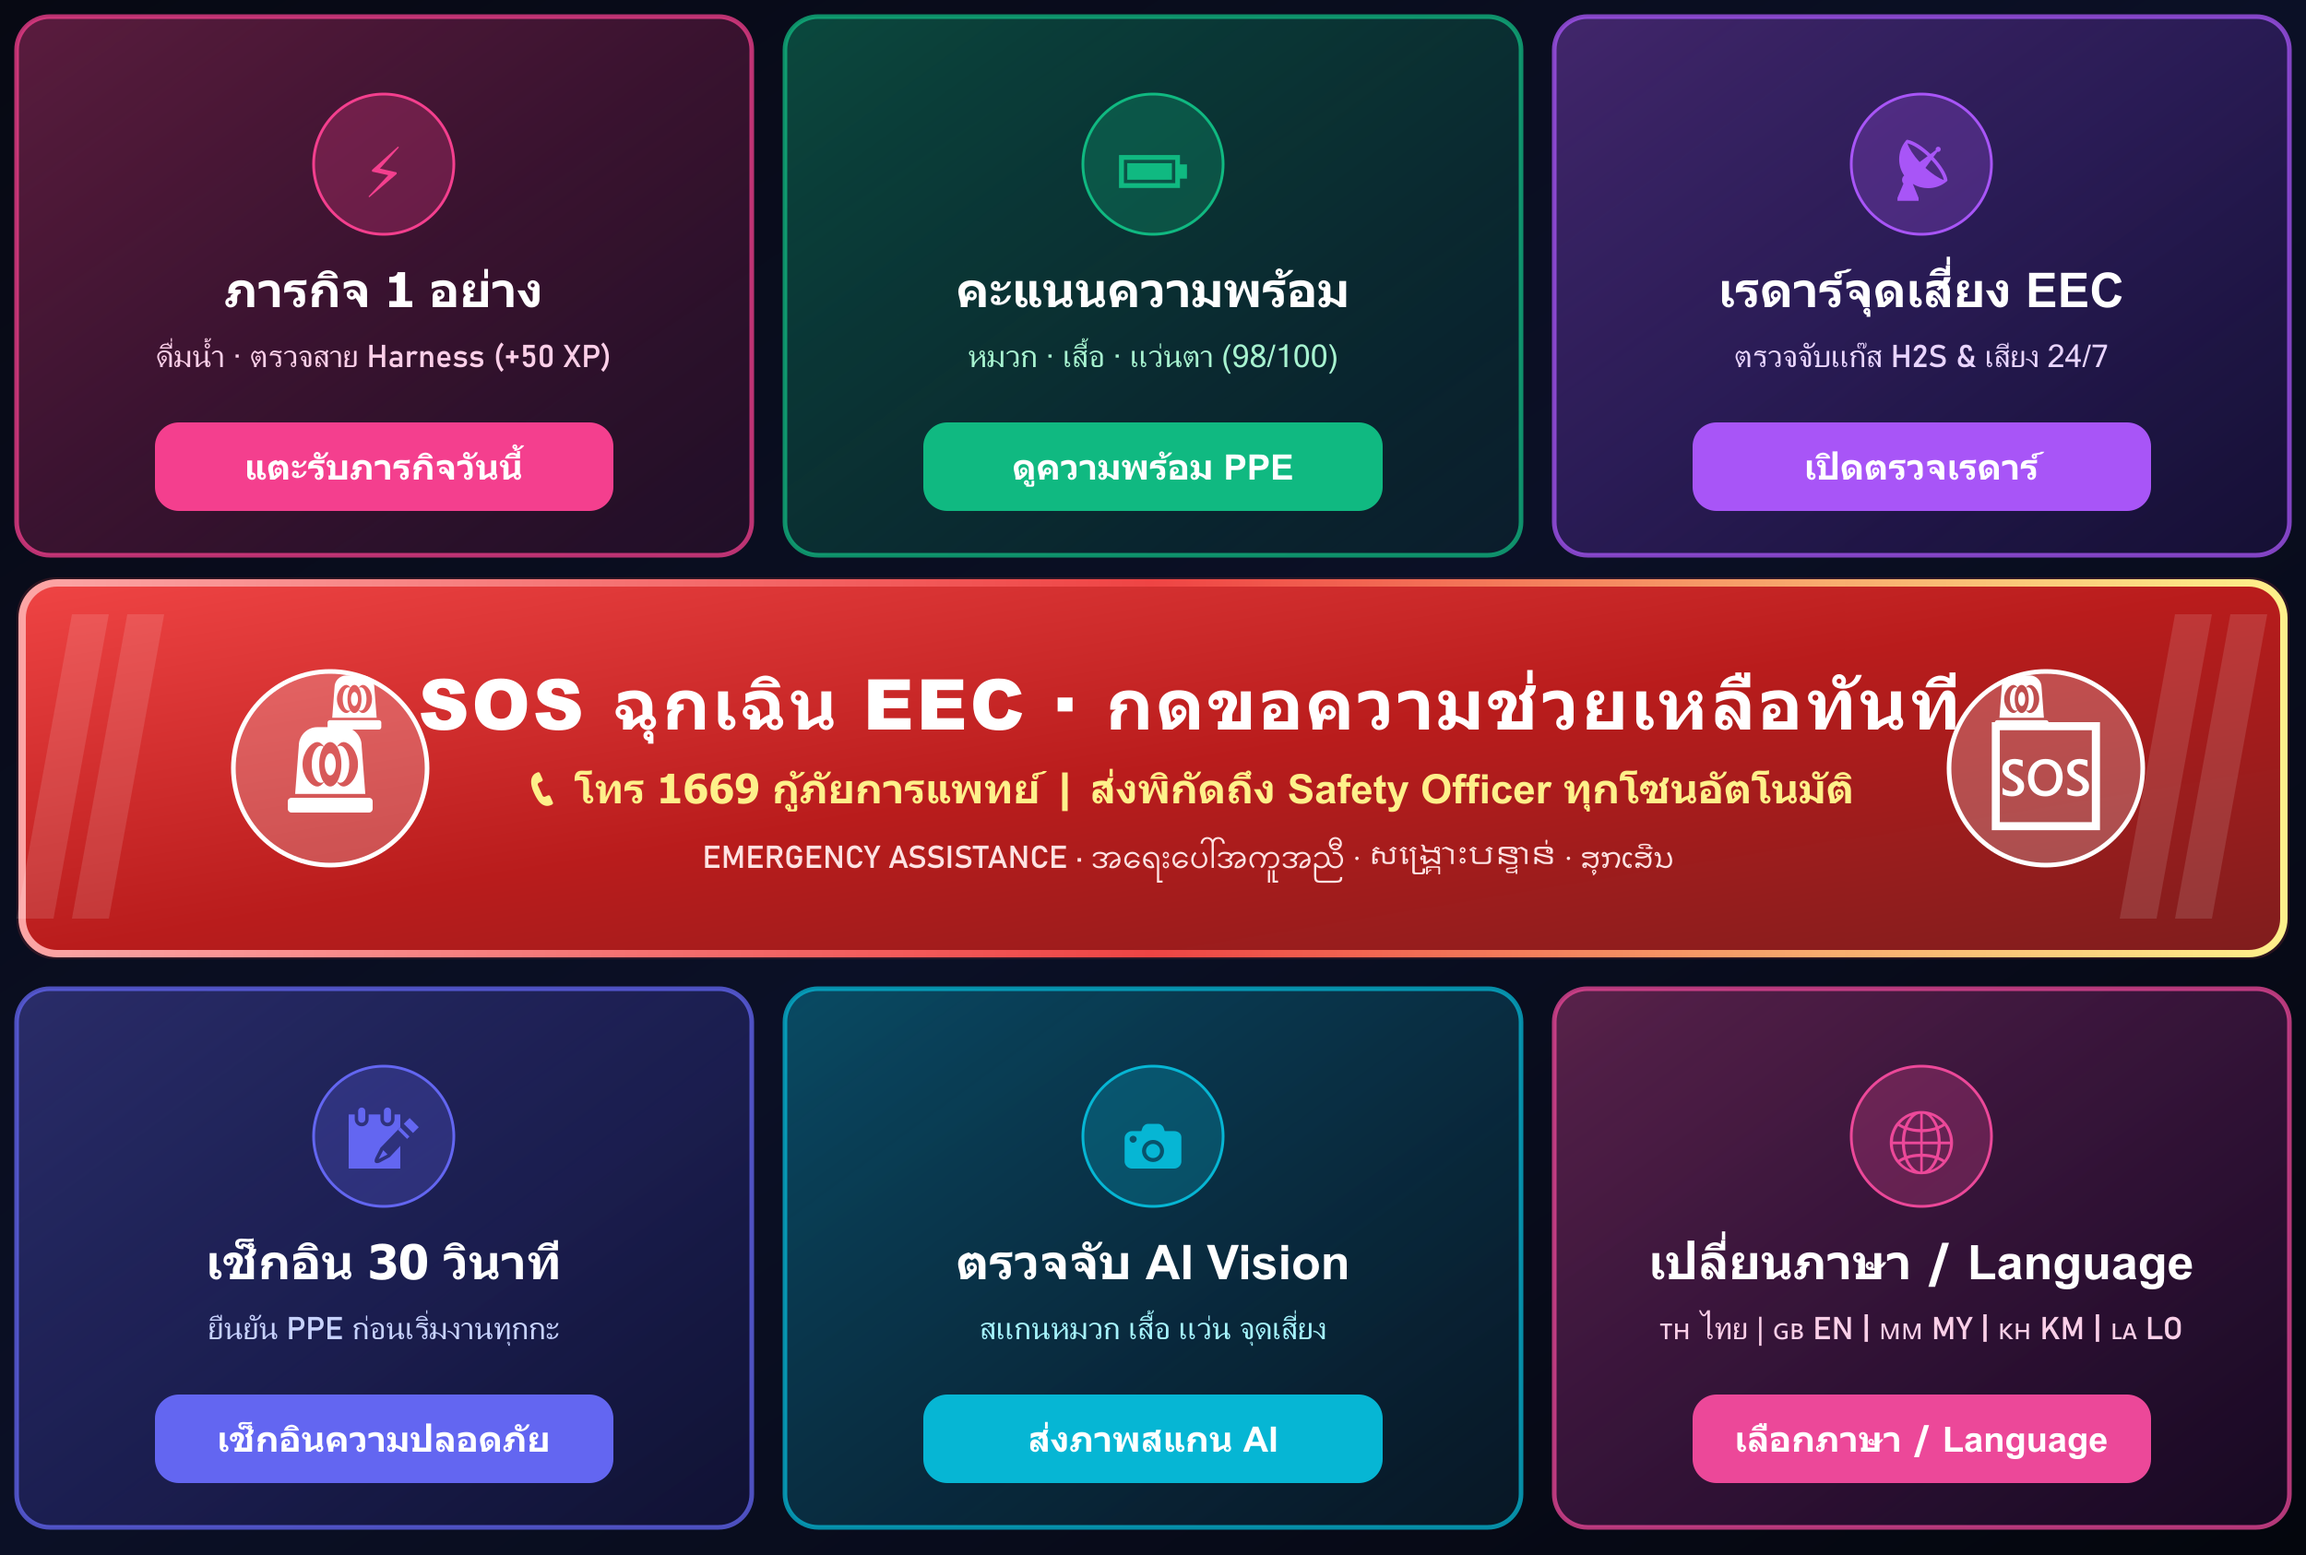
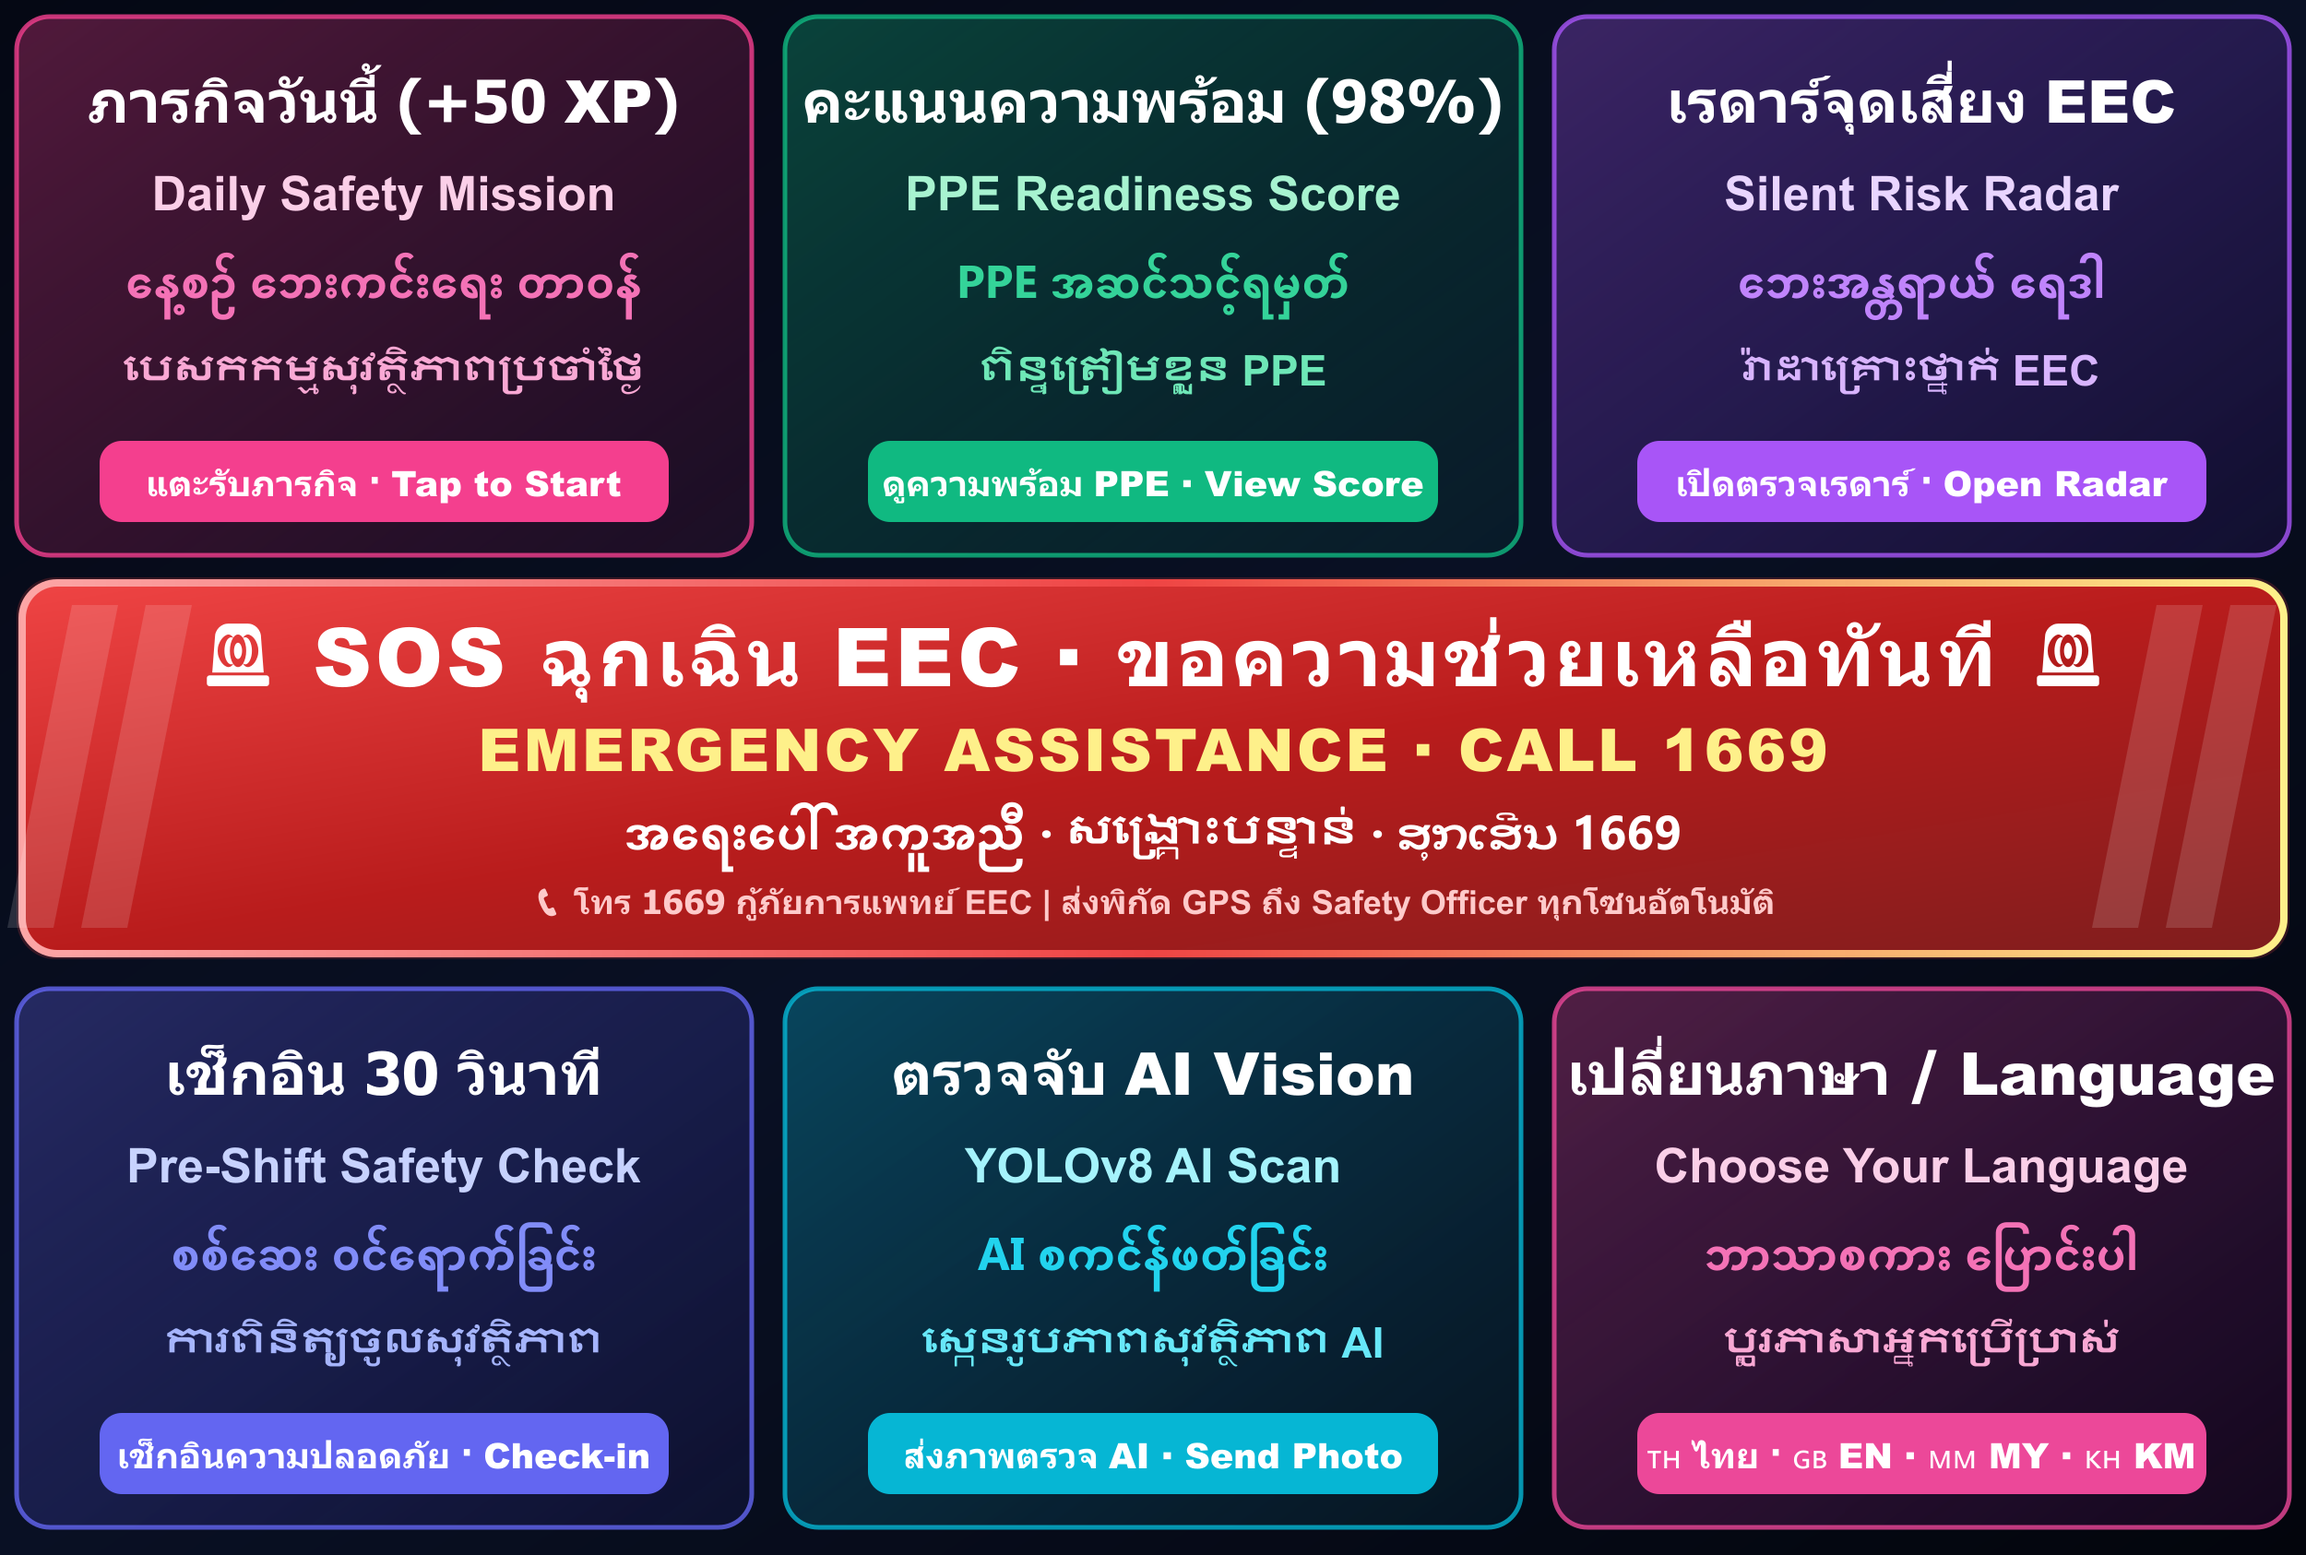
feat: add multilingual LINE Rich Menu generator and core speech/store utilities for SafeSight

diff --git a/src/core/speech.ts b/src/core/speech.ts
@@ -1,19 +1,62 @@
 import { SupportedLanguage } from './types';
 
+// Active utterances list to prevent Chromium Garbage Collection bug
+const activeUtterances: SpeechSynthesisUtterance[] = [];
+
 // Speech synthesis and alarm sound engine
 class SafeSightAudioEngine {
   private audioCtx: AudioContext | null = null;
   private isAlarmPlaying: boolean = false;
   private alarmInterval: number | null = null;
   public isMuted: boolean = false;
+  private isAudioUnlocked: boolean = false;
+
+  constructor() {
+    if (typeof window !== 'undefined') {
+      // Auto-unlock on first user interaction
+      const unlock = () => {
+        if (!this.isAudioUnlocked) {
+          this.isAudioUnlocked = true;
+          this.ensureUnlocked();
+        }
+      };
+      window.addEventListener('pointerdown', unlock, { passive: true });
+      window.addEventListener('keydown', unlock, { passive: true });
+      window.addEventListener('touchstart', unlock, { passive: true });
+      window.addEventListener('click', unlock, { passive: true });
+
+      // Preload voices if supported
+      if ('speechSynthesis' in window) {
+        window.speechSynthesis.getVoices();
+        window.speechSynthesis.onvoiceschanged = () => {
+          window.speechSynthesis.getVoices();
+        };
+      }
+    }
+  }
+
+  public ensureUnlocked(): void {
+    try {
+      if (this.audioCtx && this.audioCtx.state === 'suspended') {
+        this.audioCtx.resume().catch(() => {});
+      }
+      if ('speechSynthesis' in window && window.speechSynthesis.paused) {
+        window.speechSynthesis.resume();
+      }
+    } catch {
+      // ignore
+    }
+  }
 
   private getAudioContext(): AudioContext {
     if (!this.audioCtx) {
-      const AudioContextClass = window.AudioContext || (window as unknown as { webkitAudioContext: typeof AudioContext }).webkitAudioContext;
+      const AudioContextClass =
+        window.AudioContext ||
+        (window as unknown as { webkitAudioContext: typeof AudioContext }).webkitAudioContext;
       this.audioCtx = new AudioContextClass();
     }
     if (this.audioCtx.state === 'suspended') {
-      this.audioCtx.resume();
+      this.audioCtx.resume().catch(() => {});
     }
     return this.audioCtx;
   }
@@ -23,6 +66,9 @@ class SafeSightAudioEngine {
     if (this.isMuted) return;
     try {
       const ctx = this.getAudioContext();
+      if (ctx.state === 'suspended') {
+        ctx.resume().catch(() => {});
+      }
       const osc = ctx.createOscillator();
       const gain = ctx.createGain();
 
@@ -34,35 +80,35 @@ class SafeSightAudioEngine {
       if (type === 'critical') {
         osc.type = 'sawtooth';
         osc.frequency.setValueAtTime(880, now);
-        osc.frequency.exponentialRampToValueAtTime(440, now + 0.3);
-        gain.gain.setValueAtTime(0.3, now);
-        gain.gain.exponentialRampToValueAtTime(0.01, now + 0.3);
+        osc.frequency.exponentialRampToValueAtTime(440, now + 0.35);
+        gain.gain.setValueAtTime(0.35, now);
+        gain.gain.exponentialRampToValueAtTime(0.01, now + 0.35);
         osc.start(now);
-        osc.stop(now + 0.3);
+        osc.stop(now + 0.35);
       } else if (type === 'warning') {
         osc.type = 'sine';
         osc.frequency.setValueAtTime(660, now);
         osc.frequency.setValueAtTime(880, now + 0.1);
-        gain.gain.setValueAtTime(0.2, now);
-        gain.gain.exponentialRampToValueAtTime(0.01, now + 0.25);
+        gain.gain.setValueAtTime(0.25, now);
+        gain.gain.exponentialRampToValueAtTime(0.01, now + 0.28);
         osc.start(now);
-        osc.stop(now + 0.25);
+        osc.stop(now + 0.28);
       } else if (type === 'success') {
         osc.type = 'triangle';
         osc.frequency.setValueAtTime(523.25, now);
-        osc.frequency.setValueAtTime(659.25, now + 0.1);
-        osc.frequency.setValueAtTime(783.99, now + 0.2);
-        gain.gain.setValueAtTime(0.2, now);
+        osc.frequency.setValueAtTime(659.25, now + 0.08);
+        osc.frequency.setValueAtTime(783.99, now + 0.16);
+        gain.gain.setValueAtTime(0.22, now);
         gain.gain.exponentialRampToValueAtTime(0.01, now + 0.35);
         osc.start(now);
         osc.stop(now + 0.35);
       } else {
         osc.type = 'sine';
-        osc.frequency.setValueAtTime(400, now);
-        gain.gain.setValueAtTime(0.05, now);
-        gain.gain.exponentialRampToValueAtTime(0.001, now + 0.05);
+        osc.frequency.setValueAtTime(440, now);
+        gain.gain.setValueAtTime(0.08, now);
+        gain.gain.exponentialRampToValueAtTime(0.001, now + 0.06);
         osc.start(now);
-        osc.stop(now + 0.05);
+        osc.stop(now + 0.06);
       }
     } catch {
       // Audio context might be restricted before user gesture
@@ -89,8 +135,8 @@ class SafeSightAudioEngine {
         osc.frequency.linearRampToValueAtTime(1000, now + 0.6);
         osc.frequency.linearRampToValueAtTime(400, now + 1.2);
 
-        gain.gain.setValueAtTime(0.25, now);
-        gain.gain.linearRampToValueAtTime(0.3, now + 0.6);
+        gain.gain.setValueAtTime(0.28, now);
+        gain.gain.linearRampToValueAtTime(0.35, now + 0.6);
         gain.gain.linearRampToValueAtTime(0.1, now + 1.2);
 
         osc.start(now);
@@ -112,16 +158,37 @@ class SafeSightAudioEngine {
     }
   }
 
-  // Native Web Speech API speech synthesis
+  // Native Web Speech API speech synthesis with full fallbacks
   public speakText(text: string, lang: SupportedLanguage = 'th') {
-    if (this.isMuted || !('speechSynthesis' in window) || !text) return;
+    if (this.isMuted || typeof window === 'undefined' || !text) return;
+
+    // Play subtle auditory chime so user always receives audible feedback
+    this.playAlertBeep('click');
+
+    if (!('speechSynthesis' in window)) {
+      console.warn('SafeSight Audio: Web Speech Synthesis not supported in this environment');
+      return;
+    }
 
     try {
-      window.speechSynthesis.cancel(); // Stop any pending speech
+      this.ensureUnlocked();
 
-      const utterance = new SpeechSynthesisUtterance(text);
+      // Resume speech synthesis if suspended by Chromium
+      if (window.speechSynthesis.paused) {
+        window.speechSynthesis.resume();
+      }
+
+      // Stop any pending speech cleanly
+      window.speechSynthesis.cancel();
+
+      // Clean text
+      const cleanText = text.replace(/<[^>]*>?/gm, '').trim();
+      if (!cleanText) return;
+
+      const utterance = new SpeechSynthesisUtterance(cleanText);
       utterance.rate = 1.0;
       utterance.pitch = 1.0;
+      utterance.volume = 1.0;
 
       const langMap: Record<SupportedLanguage, string> = {
         th: 'th-TH',
@@ -131,18 +198,54 @@ class SafeSightAudioEngine {
         lo: 'lo-LA',
       };
 
-      utterance.lang = langMap[lang] || 'th-TH';
+      const requestedLocale = langMap[lang] || 'th-TH';
+      utterance.lang = requestedLocale;
 
-      // Find best available voice in browser
+      // Match best voice available
       const voices = window.speechSynthesis.getVoices();
-      const matchedVoice = voices.find((v) => v.lang.toLowerCase().startsWith(utterance.lang.slice(0, 2).toLowerCase()));
+      let matchedVoice = voices.find((v) =>
+        v.lang.toLowerCase().startsWith(requestedLocale.toLowerCase().slice(0, 2))
+      );
+
+      // Graceful voice fallback if specific regional voice is missing in OS
+      if (!matchedVoice) {
+        if (lang === 'my' || lang === 'km' || lang === 'lo') {
+          // Fallback to Thai or English voice if regional language voice is not pre-installed
+          matchedVoice =
+            voices.find((v) => v.lang.toLowerCase().startsWith('th')) ||
+            voices.find((v) => v.lang.toLowerCase().startsWith('en')) ||
+            voices[0];
+        } else {
+          matchedVoice = voices.find((v) => v.lang.toLowerCase().startsWith('en')) || voices[0];
+        }
+      }
+
       if (matchedVoice) {
         utterance.voice = matchedVoice;
       }
 
-      window.speechSynthesis.speak(utterance);
-    } catch {
-      // ignore
+      // Retain utterance reference to avoid Chrome Garbage Collection abort bug
+      activeUtterances.push(utterance);
+      const cleanup = () => {
+        const idx = activeUtterances.indexOf(utterance);
+        if (idx !== -1) activeUtterances.splice(idx, 1);
+      };
+      utterance.onend = cleanup;
+      utterance.onerror = (err) => {
+        cleanup();
+        console.warn('SafeSight Speech Synthesis warning:', err);
+      };
+
+      // Slight timeout prevents Chromium race-condition bug with cancel() + speak()
+      setTimeout(() => {
+        try {
+          window.speechSynthesis.speak(utterance);
+        } catch (e) {
+          console.warn('Speech speak call warning:', e);
+        }
+      }, 50);
+    } catch (err) {
+      console.warn('SafeSight Audio Engine Error:', err);
     }
   }
 }
@@ -152,7 +255,6 @@ let _soundEngine: SafeSightAudioEngine | null = null;
 export const soundEngine: SafeSightAudioEngine = new Proxy({} as SafeSightAudioEngine, {
   get(_target, prop) {
     if (typeof window === 'undefined') {
-      // Return no-op on server
       return () => {};
     }
     if (!_soundEngine) {
@@ -163,5 +265,14 @@ export const soundEngine: SafeSightAudioEngine = new Proxy({} as SafeSightAudioE
       return value.bind(_soundEngine);
     }
     return value;
+  },
+  set(_target, prop, value) {
+    if (typeof window !== 'undefined') {
+      if (!_soundEngine) {
+        _soundEngine = new SafeSightAudioEngine();
+      }
+      (_soundEngine as unknown as Record<string, unknown>)[prop as string] = value;
+    }
+    return true;
   },
 });

diff --git a/src/core/store.tsx b/src/core/store.tsx
@@ -134,10 +134,12 @@ export const SafeSightProvider: React.FC<{ children: React.ReactNode }> = ({ chi
         document.documentElement.classList.add('light');
         document.documentElement.classList.remove('dark');
       }
-      soundEngine.isMuted = isAudioMuted;
     }
-    // eslint-disable-next-line react-hooks/exhaustive-deps
-  }, []);
+  }, [isDarkTheme]);
+
+  useEffect(() => {
+    soundEngine.isMuted = isAudioMuted;
+  }, [isAudioMuted]);
 
   // 1. Initial Data Sync from NeonDB on Client Mount
   useEffect(() => {

diff --git a/.agents/rules/web-audio-and-multilingual-richmenu-guidelines.md b/.agents/rules/web-audio-and-multilingual-richmenu-guidelines.md
@@ -1,0 +1,6 @@
+# Web Audio & Industrial Multilingual Guidelines
+
+1. **Proxy Singleton Mutable Properties**: When wrapping audio/speech engines in a Proxy for SSR safety, ALWAYS implement both `get` and `set` traps to guarantee state mutations (`isMuted`, `volume`, etc.) propagate to the internal instance.
+2. **Web Audio Gesture Auto-Unlock**: Attach non-intrusive `pointerdown`/`touchstart` one-time event listeners on `window` to resume suspended `AudioContext` and unpause `window.speechSynthesis`.
+3. **Chromium Speech GC Safety**: Retain active `SpeechSynthesisUtterance` references in an in-memory array until `utterance.onend` or `utterance.onerror` fires to prevent Chromium's premature garbage collection bug.
+4. **Multilingual Rich Menus (EEC Industrial Standard)**: Avoid single-language icons when designing static LINE Rich Menu banners for diverse workforces. Maximize typography size and render all supported languages (🇹🇭 TH, 🇬🇧 EN, 🇲🇲 MY, 🇰🇭 KM) simultaneously in each button cell.
